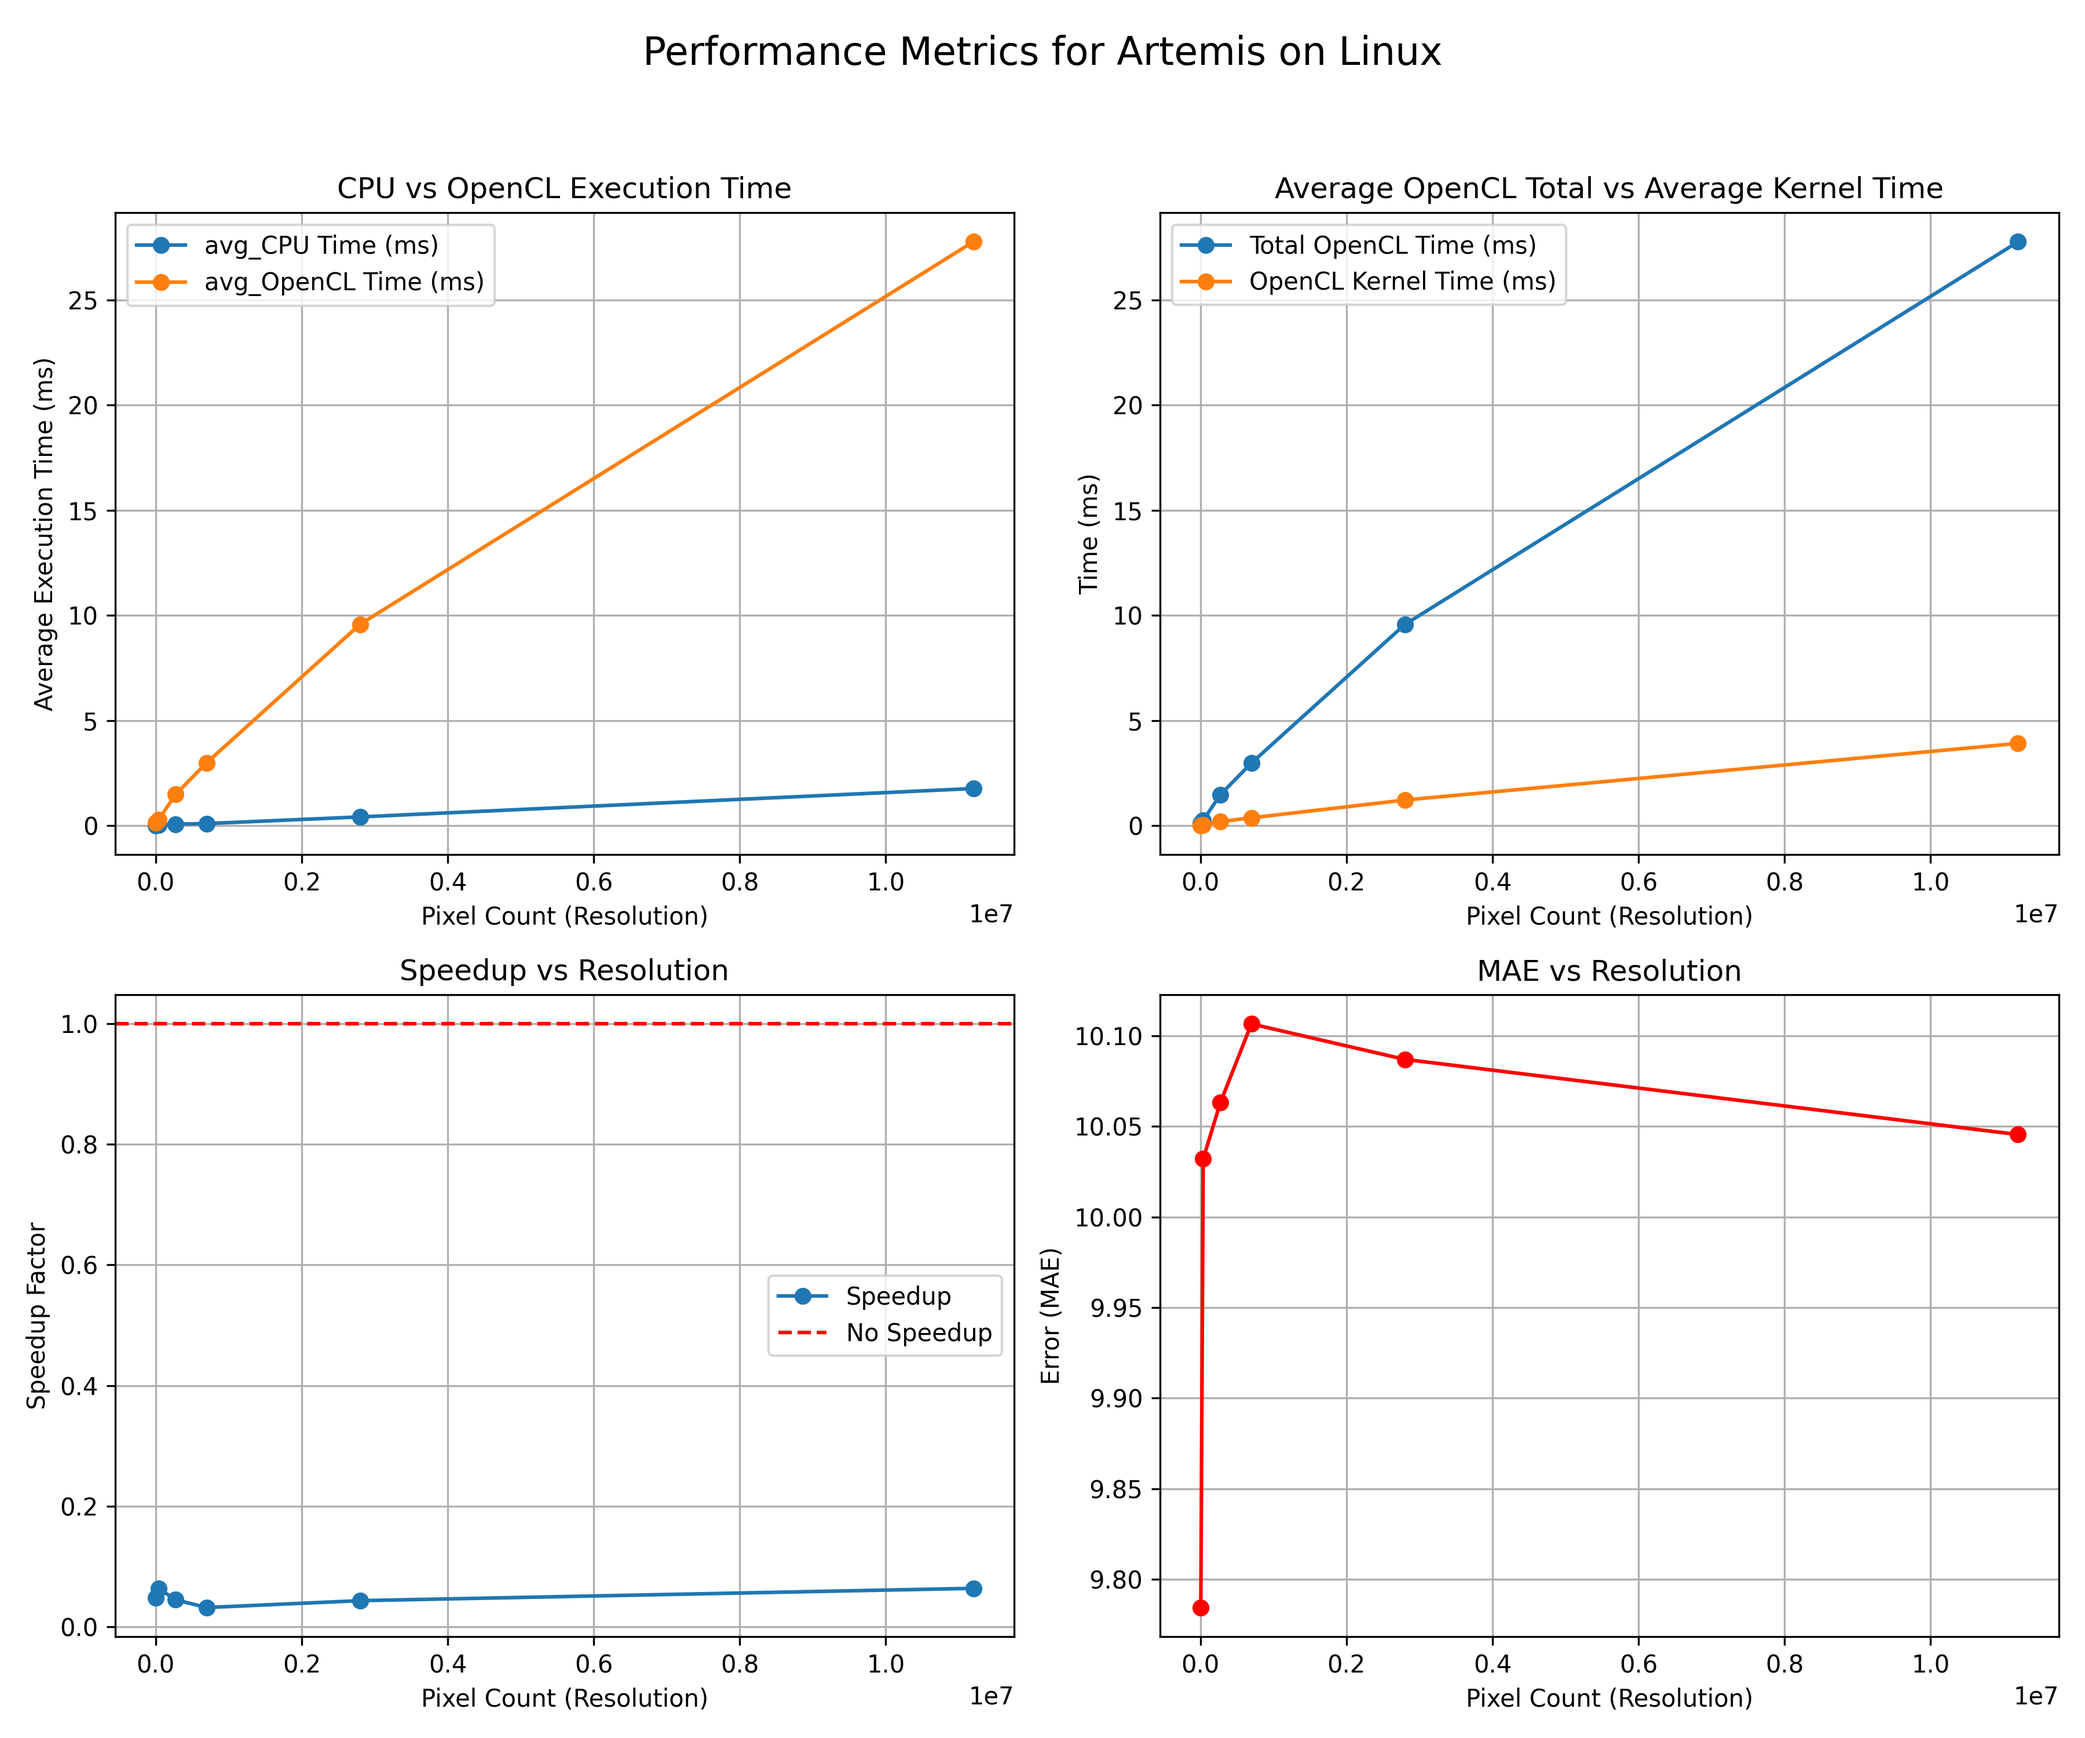
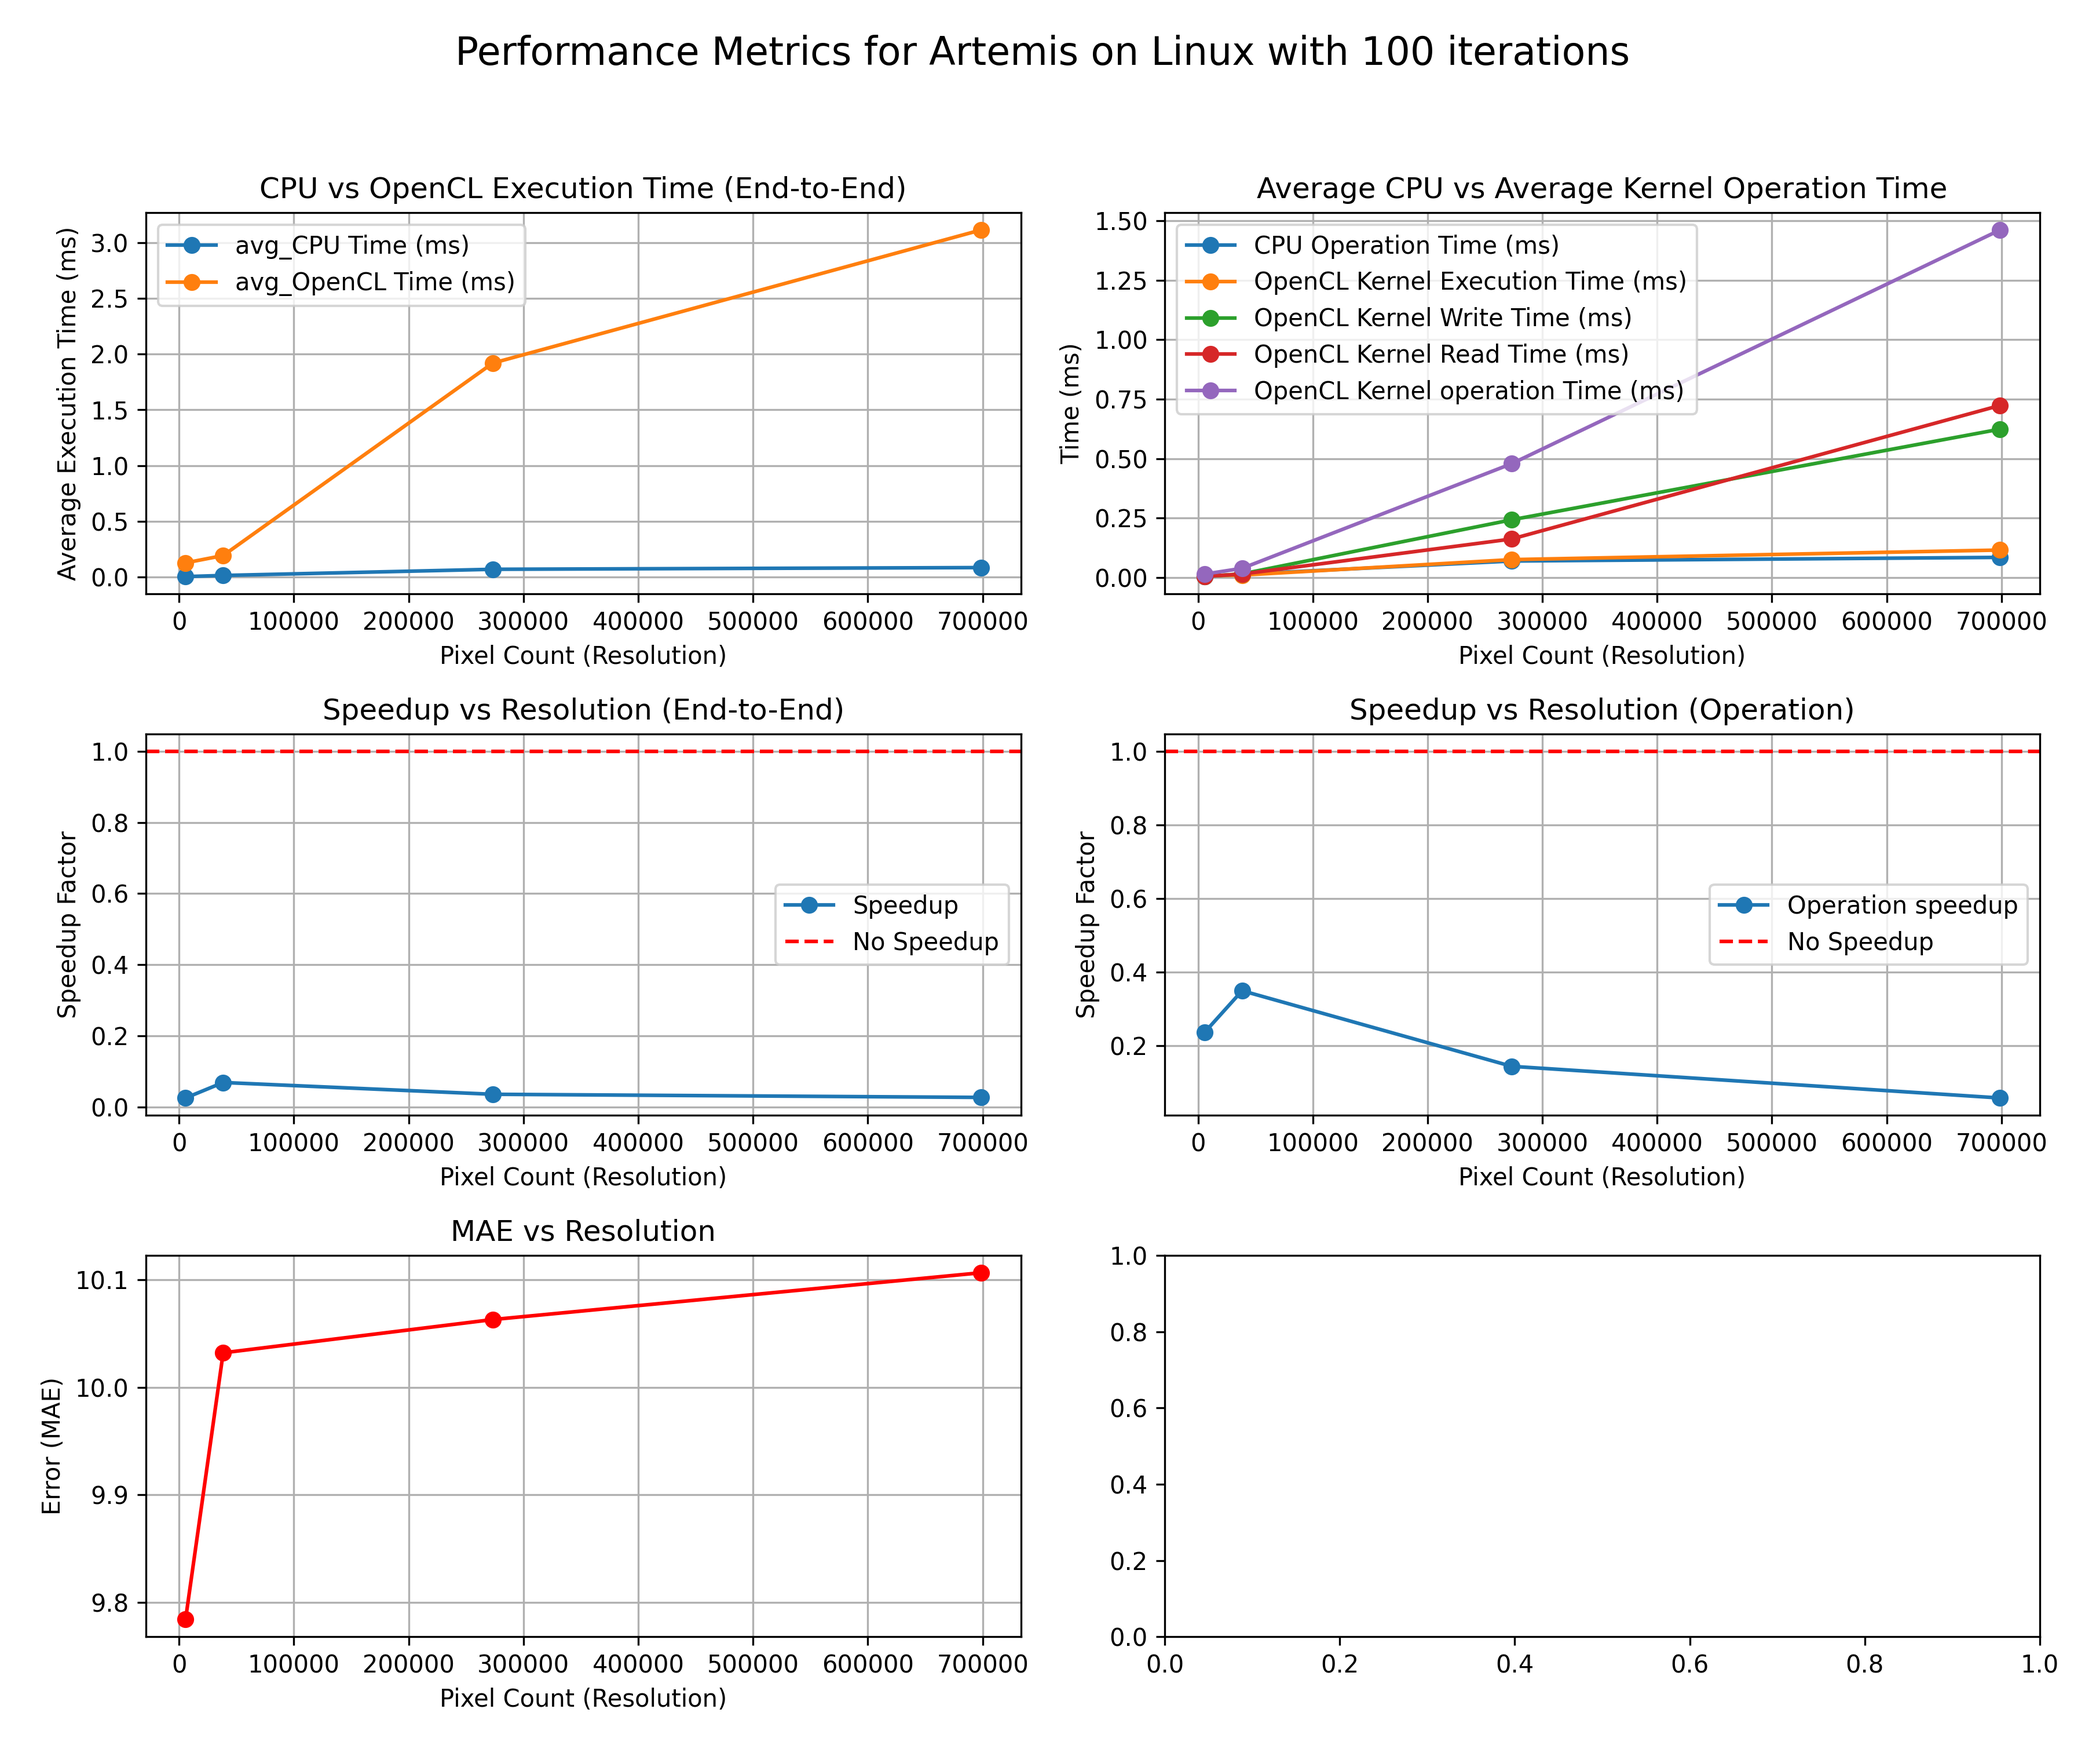
performed visualisation on Linux

diff --git a/src/Grayscale/results/visualisation.py b/src/Grayscale/results/visualisation.py
@@ -4,8 +4,8 @@ import matplotlib.pyplot as plt
 
 # 0 - Linux
 # 1 - Windows
-USING_OS = 1
-SHOW_FIGURES = True
+USING_OS = 0
+SHOW_FIGURES = False
 SHOW_TERMINAL_OUTPUT = False
 SAVE_DATAFRAME = True
 
@@ -40,12 +40,12 @@ def CPUvsOpenCLEndtoEnd(ax, data: pd.DataFrame):
 
 # OpenCL Kernel Operations vs OpenCL Total Time
 def KernelvsOpenCLTotal(ax, data: pd.DataFrame):
-    ax.plot(data['Pixel Count'], data['avg_OpenCL_Time_ms'], label='Total OpenCL Time (ms)', marker='o')
-    ax.plot(data['Pixel Count'], data['avg_OpenCL_kernel_ms'], label='OpenCL Kernel Time (ms)', marker='o')
+    ax.plot(data['Pixel Count'], data['avg_CPU_Time_ms'], label='CPU Operation Time (ms)', marker='o')
+    ax.plot(data['Pixel Count'], data['avg_OpenCL_kernel_ms'], label='OpenCL Kernel Execution Time (ms)', marker='o')
     ax.plot(data['Pixel Count'], data['avg_OpenCL_kernel_write_ms'], label='OpenCL Kernel Write Time (ms)', marker='o')
     ax.plot(data['Pixel Count'], data['avg_OpenCL_kernel_read_ms'], label='OpenCL Kernel Read Time (ms)', marker='o')
     ax.plot(data['Pixel Count'], data['avg_OpenCL_kernel_operation_ms'], label='OpenCL Kernel operation Time (ms)', marker='o')
-    ax.set_title('Average OpenCL Total vs Average Kernel Operation Time')
+    ax.set_title('Average CPU vs Average Kernel Operation Time')
     ax.set_xlabel('Pixel Count (Resolution)')
     ax.set_ylabel('Time (ms)')
     ax.legend()

diff --git a/src/Grayscale/grayscale.cpp b/src/Grayscale/grayscale.cpp
@@ -6,7 +6,7 @@
 #include <FileHandler.hpp>
 
 // CONSTANTS
-#define PLATFORM_INDEX 0
+#define PLATFORM_INDEX 1
 #define DEVICE_INDEX 0
 
 int NUMBER_OF_ITERATIONS = 100;
